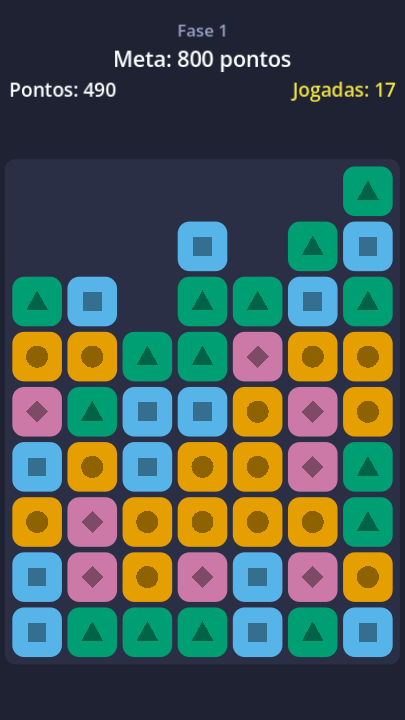
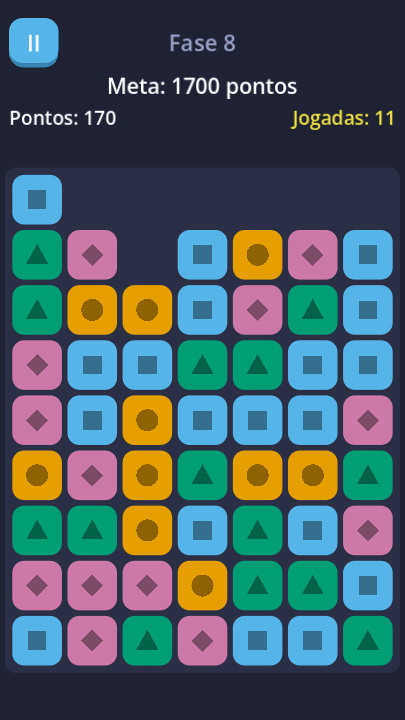
Teste de fumaça percorrendo todas as telas, novas capturas e README

diff --git a/README.md b/README.md
@@ -6,7 +6,12 @@ Puzzle casual para celular feito em **Godot 4** com **GDScript**. Toque em grupo
 de blocos da mesma cor para removê-los e cumpra a meta da fase antes de acabarem
 as jogadas.
 
-<p align="center"><img src="docs/screenshot.png" width="300" alt="Tela do jogo"></p>
+<p align="center">
+  <img src="docs/menu.png" width="200" alt="Menu principal">
+  <img src="docs/levels.png" width="200" alt="Seleção de fases">
+  <img src="docs/screenshot.png" width="200" alt="Tela do jogo">
+  <img src="docs/result.png" width="200" alt="Resultado da fase">
+</p>
 
 > Projeto em desenvolvimento: este é o MVP do meu primeiro jogo para Android.
 > O nome "Pop Blocks" é provisório.
@@ -19,6 +24,8 @@ as jogadas.
 - Pontos por jogada: `n × n × 10`, em que `n` é o tamanho do grupo. Grupos maiores valem bem mais.
 - Cada fase tem uma meta (pontuação ou "remover X blocos de uma cor") e um limite de jogadas.
 - Tocar em um bloco isolado não gasta jogada.
+- Vença com jogadas sobrando para ganhar até 3 estrelas: 2 estrelas com 20% das jogadas sobrando e 3 com 40%.
+  Cada vitória libera a fase seguinte (30 fases).
 - Cada cor tem também um ícone próprio (●, ■, ▲, ◆…), para que quem tem daltonismo jogue sem problema.
 
 ## Destaques técnicos
@@ -28,9 +35,15 @@ as jogadas.
   de cena), então dá para testá-las isoladamente.
 - **Fases em dados**: todas as fases ficam em [`data/levels.json`](data/levels.json),
   nenhuma é escrita no código.
+- **Dificuldade medida, não chutada**: [`tools/balance.gd`](tools/balance.gd) joga cada
+  fase centenas de vezes com um jogador "guloso" e um aleatório e mostra a taxa de
+  vitória. A curva vai de 100% nas primeiras fases a cerca de 45% (guloso) nas últimas.
+- **Progresso salvo** em `user://save.json` ([`scripts/progress.gd`](scripts/progress.gd)),
+  com gravação atômica (arquivo temporário + rename) e recuperação de save corrompido.
 - **Testes automatizados** com um executor próprio e leve, rodando em modo headless
   no GitHub Actions a cada push.
-- Animações com `Tween`, protegidas contra reinício de fase no meio da animação.
+- Animações com `Tween`, protegidas contra pausa e reinício no meio da animação.
+  O botão "voltar" do Android pausa o jogo e volta entre as telas.
 
 ## Rodando o projeto
 
@@ -45,10 +58,19 @@ godot --headless --path . --import
 godot --headless --path . -s tests/run_tests.gd
 ```
 
-### Captura de tela / teste de fumaça da interface
+### Teste de fumaça da interface (gera as imagens de `docs/`)
+
+Percorre todas as telas, simula toques e testa pausar e reiniciar durante uma animação.
+Não altera o seu save.
 
 ```bash
-godot --path . -s tools/screenshot.gd -- res://docs/screenshot.png
+godot --path . -s tools/screenshot.gd
+```
+
+### Simulador de dificuldade
+
+```bash
+godot --headless --path . -s tools/balance.gd -- 300
 ```
 
 ## Estrutura
@@ -56,16 +78,17 @@ godot --path . -s tools/screenshot.gd -- res://docs/screenshot.png
 ```
 data/      fases (levels.json)
 docs/      imagens do README
-scenes/    cenas do Godot
-scripts/   lógica do jogo (board, game_session, level_loader) e interface
+scenes/    cenas: menu, seleção de fases, opções e jogo
+scripts/   lógica pura (board, game_session, progress, level_loader),
+           autoload GameState e telas (game_view, ui/)
 tests/     testes da lógica e executor
-tools/     scripts utilitários
+tools/     teste de fumaça/capturas e simulador de dificuldade
 ```
 
 ## Roteiro
 
 - [x] **Semana 1**: tabuleiro, remoção de grupos, gravidade, pontuação e testes
-- [ ] **Semana 2**: menu, seleção de fases, pausa, resultado e progresso salvo
+- [x] **Semana 2**: menu, seleção de fases, pausa, resultado, 30 fases em JSON e progresso salvo
 - [ ] **Semana 3**: arte, sons, música e as 30 fases balanceadas
 - [ ] **Semana 4**: anúncios e publicação na Google Play (teste fechado)
 
